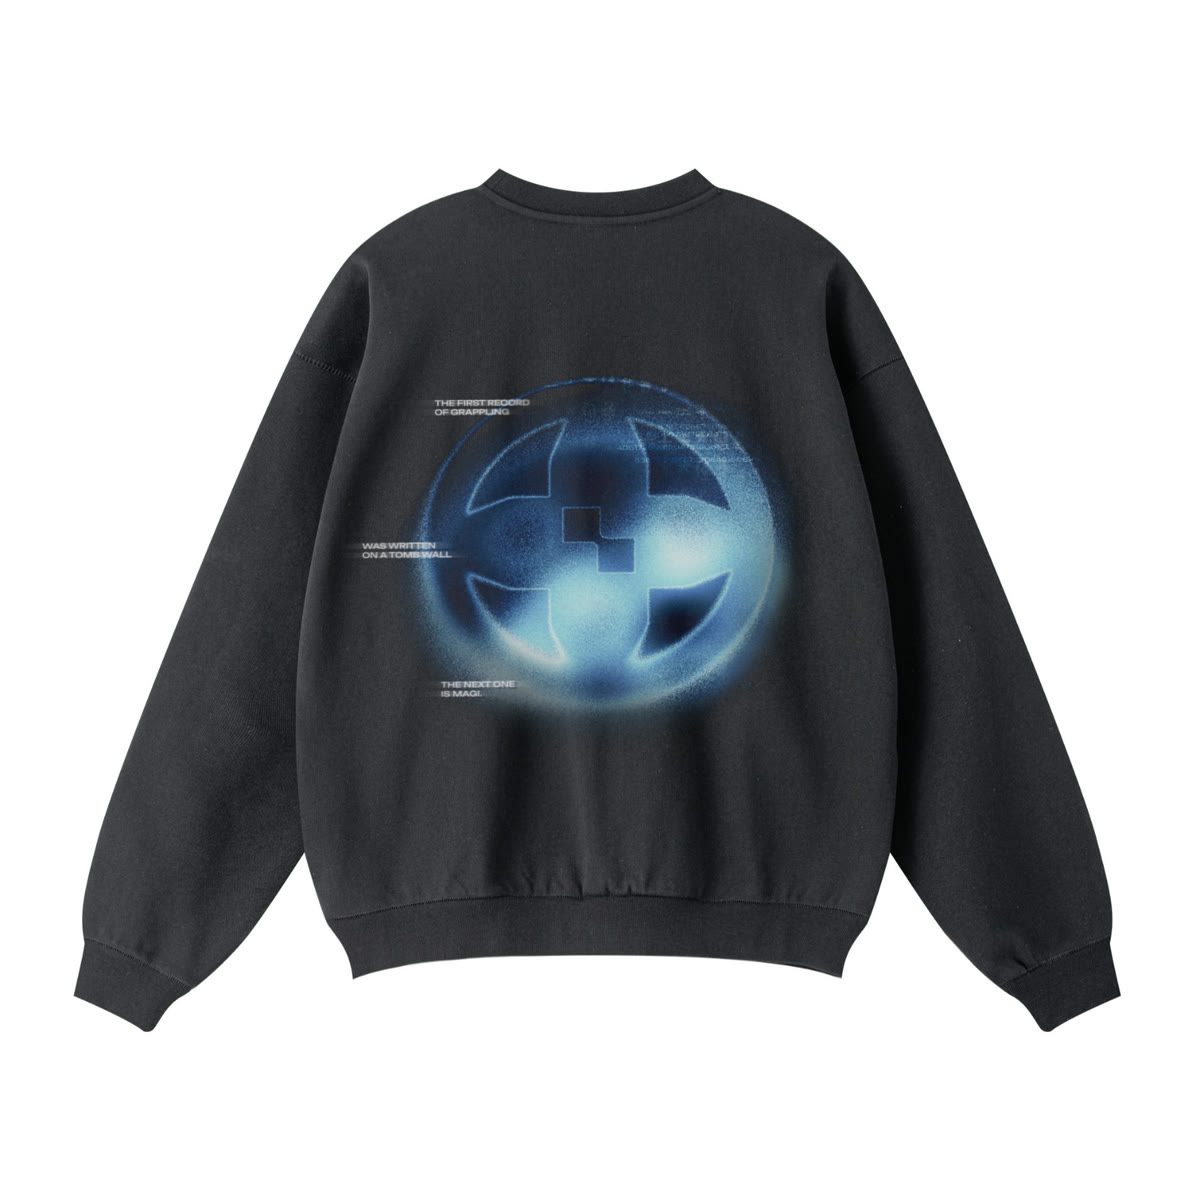
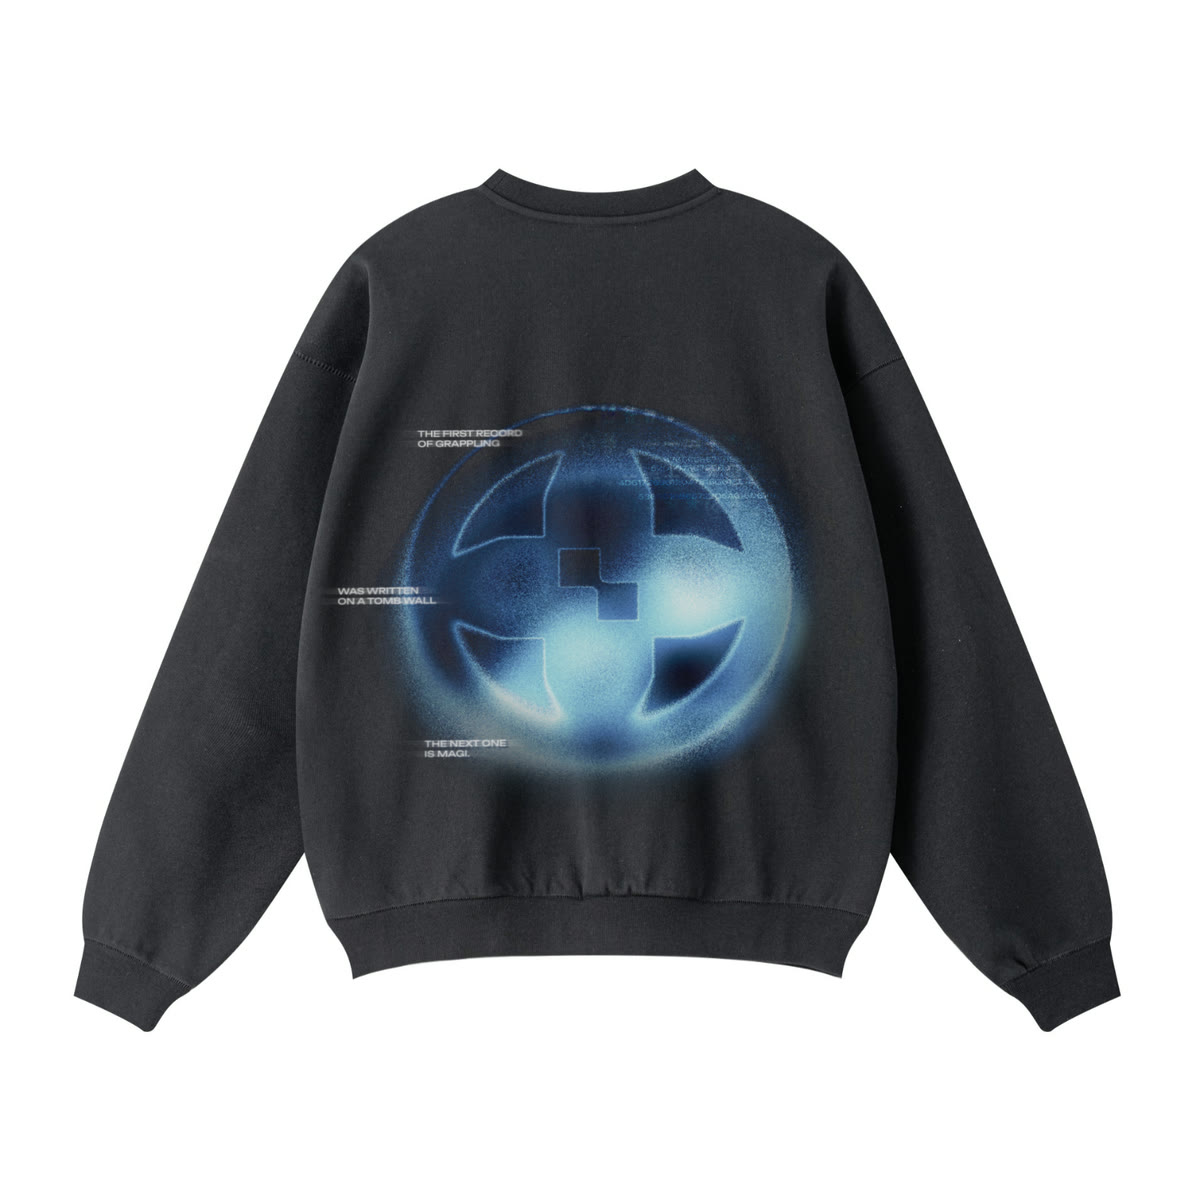
Shop: Terry Crewneck points at its recreated Shopify listing
The listing was recreated as product 15503466037612 with new variant
ids (the old 15503067906412 no longer exists). Same price, sizes and
copy; the back photo is Shopify's new one (larger, higher print).

Changed region(s): [[0.2775, 0.3083, 0.6783, 0.6475]]

diff --git a/shop.html b/shop.html
@@ -323,7 +323,7 @@
                    alt="Front of the Terry Crewneck in black French terry: a glowing blue magi logo with see clearly, move simply, waste nothing">
             </figure>
             <figure class="shop-slide" data-hover-preview>
-              <img src="assets/img/shop/crew-terry-2.jpg" width="1200" height="1200" loading="lazy"
+              <img src="assets/img/shop/crew-terry-2.jpg?v=20261119" width="1200" height="1200" loading="lazy"
                    alt="Back of the Terry Crewneck: a large glowing blue magi pentacle with the line: the first record of grappling was written on a tomb wall, the next one is magi">
             </figure>
             <div class="shop-dots" role="group" aria-label="Product views">
@@ -344,7 +344,7 @@
             <!-- Description and size chart open in a pop-up. The copy comes
                  from the Shopify listing (js/shop-buy.js refreshes it live);
                  this copy shows if Shopify can't be reached. -->
-            <div class="shop-details" data-shopify-details="15503067906412">
+            <div class="shop-details" data-shopify-details="15503466037612">
               <button type="button" class="shop-more-btn" aria-haspopup="dialog" aria-controls="crew-terry-modal">[ see more details ]</button>
               <dialog class="shop-modal" id="crew-terry-modal" aria-labelledby="crew-terry-modal-name">
                 <div class="shop-modal-frame">
@@ -356,19 +356,19 @@
                     <div class="shop-modal-photo">
                       <div class="shop-modal-view">
                         <img class="is-active" src="assets/img/shop/crew-terry-1.jpg" width="1200" height="1200" loading="lazy" alt="Front of the Terry Crewneck in black French terry: a glowing blue magi logo with see clearly, move simply, waste nothing">
-                        <img src="assets/img/shop/crew-terry-2.jpg" width="1200" height="1200" loading="lazy" alt="Back of the Terry Crewneck: a large glowing blue magi pentacle with the line: the first record of grappling was written on a tomb wall, the next one is magi">
+                        <img src="assets/img/shop/crew-terry-2.jpg?v=20261119" width="1200" height="1200" loading="lazy" alt="Back of the Terry Crewneck: a large glowing blue magi pentacle with the line: the first record of grappling was written on a tomb wall, the next one is magi">
                       </div>
                       <div class="shop-modal-thumbs" role="group" aria-label="Product views">
                         <button type="button" aria-pressed="true" aria-label="View 1 of 2: front"><img src="assets/img/shop/crew-terry-1.jpg" alt="" loading="lazy"></button>
-                        <button type="button" aria-pressed="false" aria-label="View 2 of 2: back"><img src="assets/img/shop/crew-terry-2.jpg" alt="" loading="lazy"></button>
+                        <button type="button" aria-pressed="false" aria-label="View 2 of 2: back"><img src="assets/img/shop/crew-terry-2.jpg?v=20261119" alt="" loading="lazy"></button>
                       </div>
                     </div>
                     <div class="shop-modal-info">
                       <h2 class="shop-modal-name" id="crew-terry-modal-name">Terry Crewneck</h2>
                       <div class="shop-buy shop-buy--options shop-modal-buy">
                         <span class="shop-price">$65</span>
-                        <div class="shop-cta-mount" data-shopify-product="15503067906412" data-shopify-options>
-                          <div class="shop-cta-sizes"><a class="shop-cta" href="https://xcqc4a-1a.myshopify.com/cart/68226468708716:1" aria-label="Buy size S">S</a><a class="shop-cta" href="https://xcqc4a-1a.myshopify.com/cart/68226468741484:1" aria-label="Buy size M">M</a><a class="shop-cta" href="https://xcqc4a-1a.myshopify.com/cart/68226468774252:1" aria-label="Buy size L">L</a><a class="shop-cta" href="https://xcqc4a-1a.myshopify.com/cart/68226468807020:1" aria-label="Buy size XL">XL</a><a class="shop-cta" href="https://xcqc4a-1a.myshopify.com/cart/68226468839788:1" aria-label="Buy size 2XL">2XL</a></div>
+                        <div class="shop-cta-mount" data-shopify-product="15503466037612" data-shopify-options>
+                          <div class="shop-cta-sizes"><a class="shop-cta" href="https://xcqc4a-1a.myshopify.com/cart/68230284575084:1" aria-label="Buy size S">S</a><a class="shop-cta" href="https://xcqc4a-1a.myshopify.com/cart/68230284607852:1" aria-label="Buy size M">M</a><a class="shop-cta" href="https://xcqc4a-1a.myshopify.com/cart/68230284640620:1" aria-label="Buy size L">L</a><a class="shop-cta" href="https://xcqc4a-1a.myshopify.com/cart/68230284673388:1" aria-label="Buy size XL">XL</a><a class="shop-cta" href="https://xcqc4a-1a.myshopify.com/cart/68230284706156:1" aria-label="Buy size 2XL">2XL</a></div>
                         </div>
                       </div>
                       <h3 class="shop-modal-label">description</h3>
@@ -399,8 +399,8 @@
             </div>
             <div class="shop-buy shop-buy--options">
               <span class="shop-price">$65</span>
-              <div class="shop-cta-mount" data-shopify-product="15503067906412" data-shopify-options>
-                <div class="shop-cta-sizes"><a class="shop-cta" href="https://xcqc4a-1a.myshopify.com/cart/68226468708716:1" aria-label="Buy size S">S</a><a class="shop-cta" href="https://xcqc4a-1a.myshopify.com/cart/68226468741484:1" aria-label="Buy size M">M</a><a class="shop-cta" href="https://xcqc4a-1a.myshopify.com/cart/68226468774252:1" aria-label="Buy size L">L</a><a class="shop-cta" href="https://xcqc4a-1a.myshopify.com/cart/68226468807020:1" aria-label="Buy size XL">XL</a><a class="shop-cta" href="https://xcqc4a-1a.myshopify.com/cart/68226468839788:1" aria-label="Buy size 2XL">2XL</a></div>
+              <div class="shop-cta-mount" data-shopify-product="15503466037612" data-shopify-options>
+                <div class="shop-cta-sizes"><a class="shop-cta" href="https://xcqc4a-1a.myshopify.com/cart/68230284575084:1" aria-label="Buy size S">S</a><a class="shop-cta" href="https://xcqc4a-1a.myshopify.com/cart/68230284607852:1" aria-label="Buy size M">M</a><a class="shop-cta" href="https://xcqc4a-1a.myshopify.com/cart/68230284640620:1" aria-label="Buy size L">L</a><a class="shop-cta" href="https://xcqc4a-1a.myshopify.com/cart/68230284673388:1" aria-label="Buy size XL">XL</a><a class="shop-cta" href="https://xcqc4a-1a.myshopify.com/cart/68230284706156:1" aria-label="Buy size 2XL">2XL</a></div>
               </div>
             </div>
           </div>
